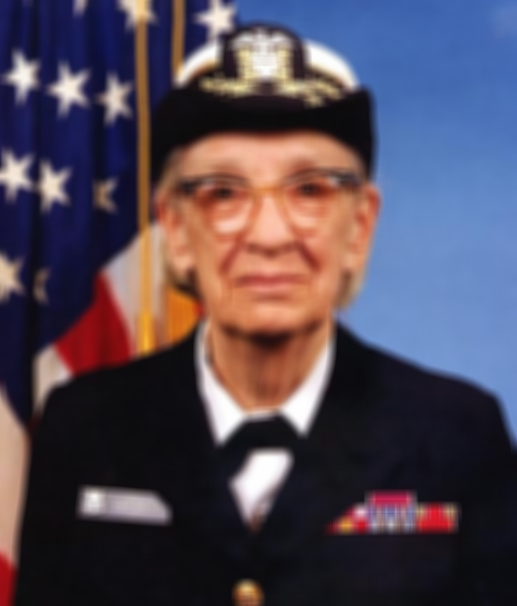
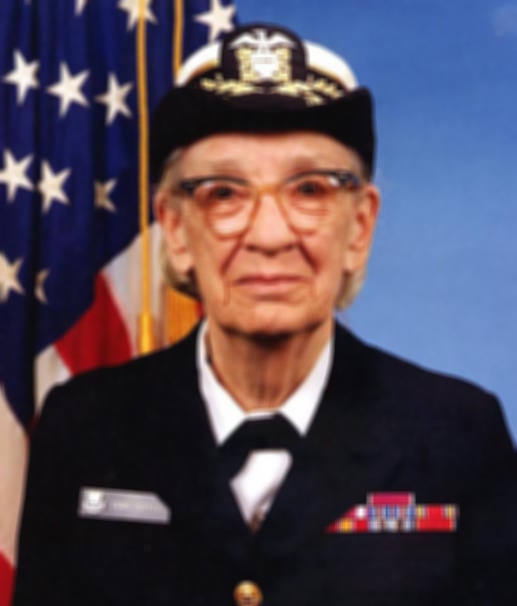
Added gradio visualization for gaussian blur

diff --git a/chapter-3/code/gaussian_blur/gradio_visualization.py b/chapter-3/code/gaussian_blur/gradio_visualization.py
@@ -1,0 +1,24 @@
+import gradio as gr
+from gaussian_blur import compile_extension
+from pathlib import Path
+import numpy as np
+import torch
+
+ext = compile_extension()
+
+def greet(image: np.ndarray, blur_size: int):
+    image = torch.tensor(image).to("cuda").permute(2, 0, 1).contiguous()
+    y = ext.gaussian_blur(image, blur_size)
+    return y.cpu().permute(1, 2, 0).numpy()
+
+image_path = Path(__file__).parent.parent / "Grace_Hopper.jpg"
+
+demo = gr.Interface(
+    fn=greet,
+    inputs=["image", gr.Slider(minimum=0, maximum=30, step=1, value=3)],
+    outputs=["image"],
+    examples=[[str(image_path), 3]]
+)
+
+if __name__ == "__main__":
+    demo.launch()   

diff --git a/chapter-3/code/gaussian_blur/gaussian_blur.py b/chapter-3/code/gaussian_blur/gaussian_blur.py
@@ -6,7 +6,7 @@ from torchvision.io import read_image, write_png
 
 def compile_extension():
     cuda_source = (Path(__file__).parent / "gaussian_blur.cu").read_text()
-    cpp_source = "torch::Tensor gaussian_blur(torch::Tensor img);"
+    cpp_source = "torch::Tensor gaussian_blur(torch::Tensor img, int blurSize);"
 
     return load_inline(
         name="gaussian_blur_extension",
@@ -27,7 +27,9 @@ def main():
     print()
 
     ext = compile_extension()
-    y = ext.gaussian_blur(x)
+    blur_size = 3
+
+    y = ext.gaussian_blur(x, blur_size)
 
     print("Converted:")
     print("mean:", y.float().mean())
